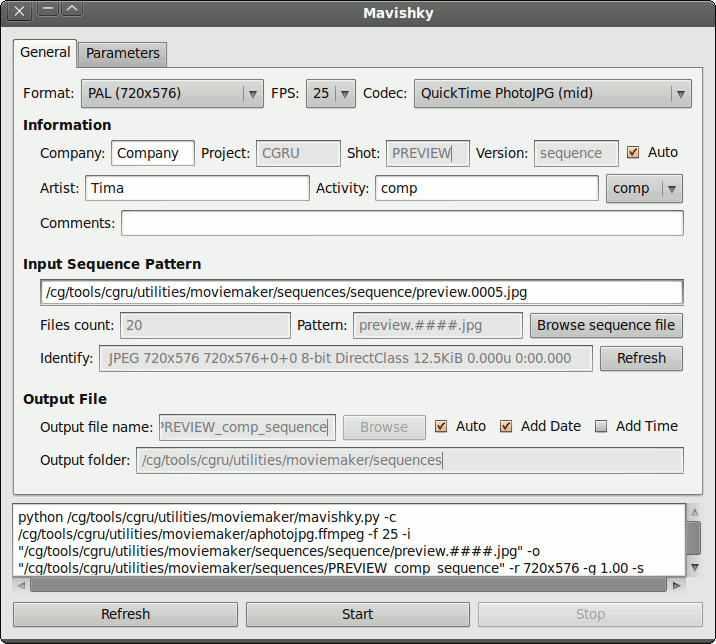
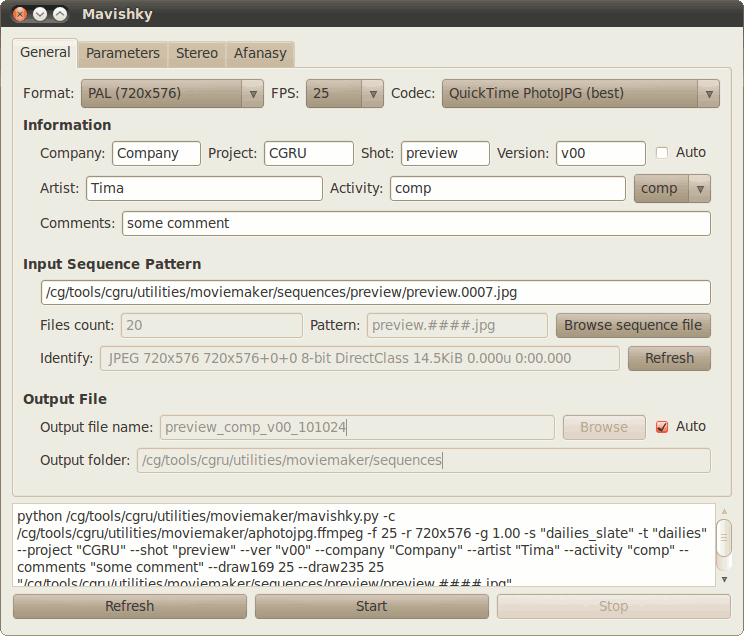
docs
git-svn-id: https://cgru.svn.sourceforge.net/svnroot/cgru@1153 0f86f178-d61e-0410-9d12-f6255c3815b8

diff --git a/index.html b/index.html
@@ -114,6 +114,9 @@ switch( window.location.protocol)
 <h3>Last Added Features:</h3>
 
 <p>
+<a href="utilities/moviemaker/doc/index.html">"Mavishky"<a> stereo mode.
+</p>
+<p>
 <a href="afanasy/plugins/max/doc/afanasy.html">3D Studio MAX submit to Afanasy sripts</a>. MAX Afanasy service and parser.
 </p>
 <p>
@@ -147,20 +150,10 @@ and after successful render copy it to network location
 (it can save network traffic, as host do not often write small portions of an image during calculations).
 </p>
 <p>
-Block <a href="afanasy/doc/job_block.html#FramesPerTask">Frames Per Task</a> parameter can be negative.
-Needed for sub-frame dependency.
-</p>
-<p>
 Afanasy has an ability to <a href="afanasy/doc/pathsmap.html">map paths</a>.
 You can setup farm with various platforms clients.
 Submit jobs on Windows or Linux (MacOSX) to render and on Windows and on Linux (MacOSX) clients.
 Every client can have individual a paths map file to translate paths to server and from server.
-</p>
-<p>
-<a href="utilities/moviemaker/doc/index.html">"Mavishky!"<a> works on MS Windows.
-Linux releases has <a href="http://www.ffmpeg.org">'ffmpeg'<a> binary compiled with
-<a href="http://www.videolan.org/developers/x264.html">'x264'<a> library to encode 'H.264' codec.
-Windows users need to install <a href="http://www.imagemagick.org">ImageMagick<a>, which contains 'ffmpeg' with 'x264'.
 </p>
 <p>
 <a href="afanasy/plugins/xsi/doc/afanasy.html">Softimage XSI submit to Afanasy sripts</a>. XSI Afanasy service and parser.

diff --git a/utilities/moviemaker/doc/index.html b/utilities/moviemaker/doc/index.html
@@ -58,11 +58,19 @@ Mavishky dialog constructs and launches <kbd>mavishky.py</kbd> script. It is a G
 <p>
 <table width="99%">
 <tr align="center"><td>
-<img src="dialog.png" alt="dialog.png"/>
+   <img src="dialog.png" alt="dialog.png"/>
 </td></tr>
 <tr align="center"><td>
-Parameters tab:<br/>
-<img src="dialog_parameters.png" alt="dialog_parameters.png"/>
+   Parameters Tab:<br/>
+   <img src="dialog_parameters.png" alt="dialog_parameters.png"/>
+</td></tr>
+<tr align="center"><td>
+   Stereo Tab:<br/>
+   <img src="dialog_stereo.png" alt="dialog_stereo.png"/>
+</td></tr>
+<tr align="center"><td>
+   Afanasy Tab:<br/>
+   <img src="dialog_afanasy.png" alt="dialog_afanasy.png"/>
 </td></tr>
 </table>
 </p>
@@ -71,8 +79,8 @@ Parameters tab:<br/>
 <p>
 This script creates a movie from images sequence.
 It consists of two stages.
-Reformat, annotate input images and store them in temporary directory as JPEGs.
-Encode temporary JPEG images into the movie.
+Reformat, annotate input images and store them in temporary directory.
+Encode temporary images into the movie.
 </p>
 <p>
 <kbd>mavishky.py</kbd> script uses <kbd>makeframe.py</kbd> script to reformat and annotate each frame.

diff --git a/doc/changes_log.html b/doc/changes_log.html
@@ -53,7 +53,7 @@ If Afanasy <b>database schema changed</b> server can't restore state. All inform
 <br/>
 <h4>2010.09.10</h4>
 <p>
-<a href="../afanasy/plugins/max/doc/afanasy.html">3D Studio MAX submit to Afanasy sripts</a>. MAX Afanasy service and parser.
+<a href="../afanasy/plugins/max/doc/afanasy.html">3D Studio MAX submit to Afanasy scripts</a>. MAX Afanasy service and parser.
 </p>
 <p>
 Watch can ask and launch a custom command with render items.<br/>
@@ -61,7 +61,7 @@ Watch has more sort&filter parameters.<br/>
 Watch items new shadow shading.<br/>
 </p>
 <p>
-"Movishky" stereo mode.
+<a href="../utilities/moviemaker/doc/index.html">"Mavishky"<a> stereo mode, DNxHD codec preset and Utf-8 full support.
 </p>
 <p>
 Nuke stereo render views in different folders bug fixed.
